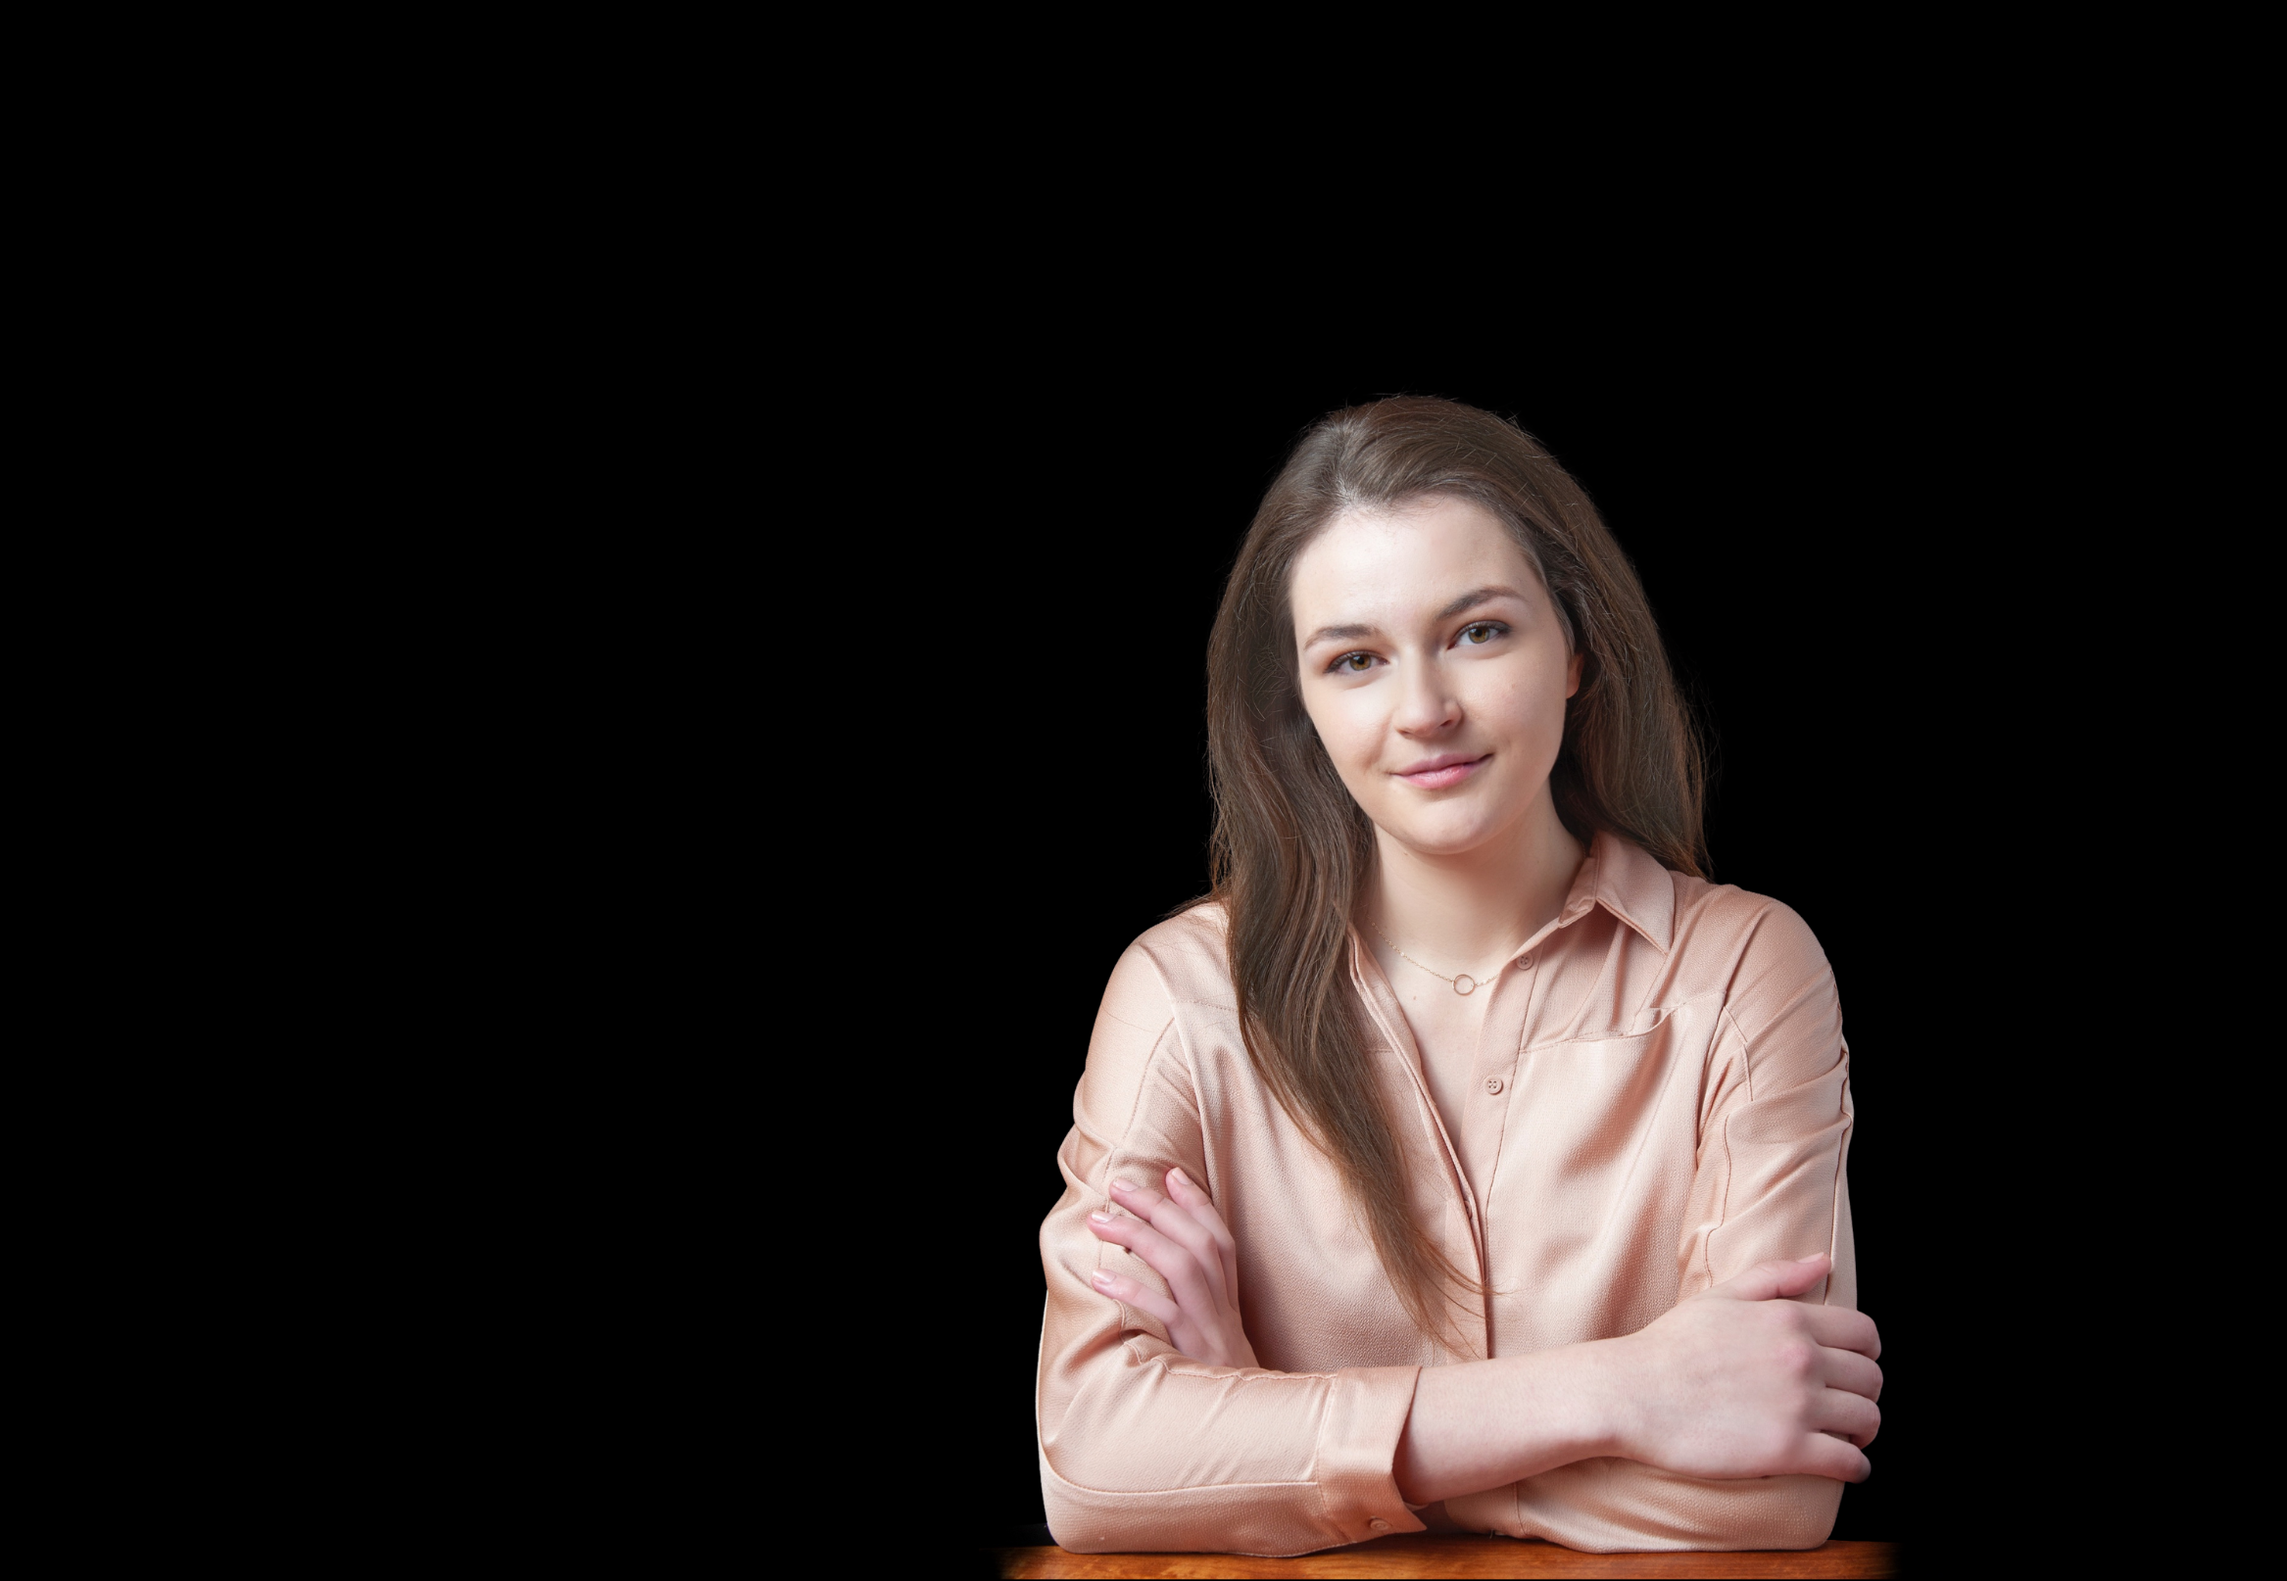
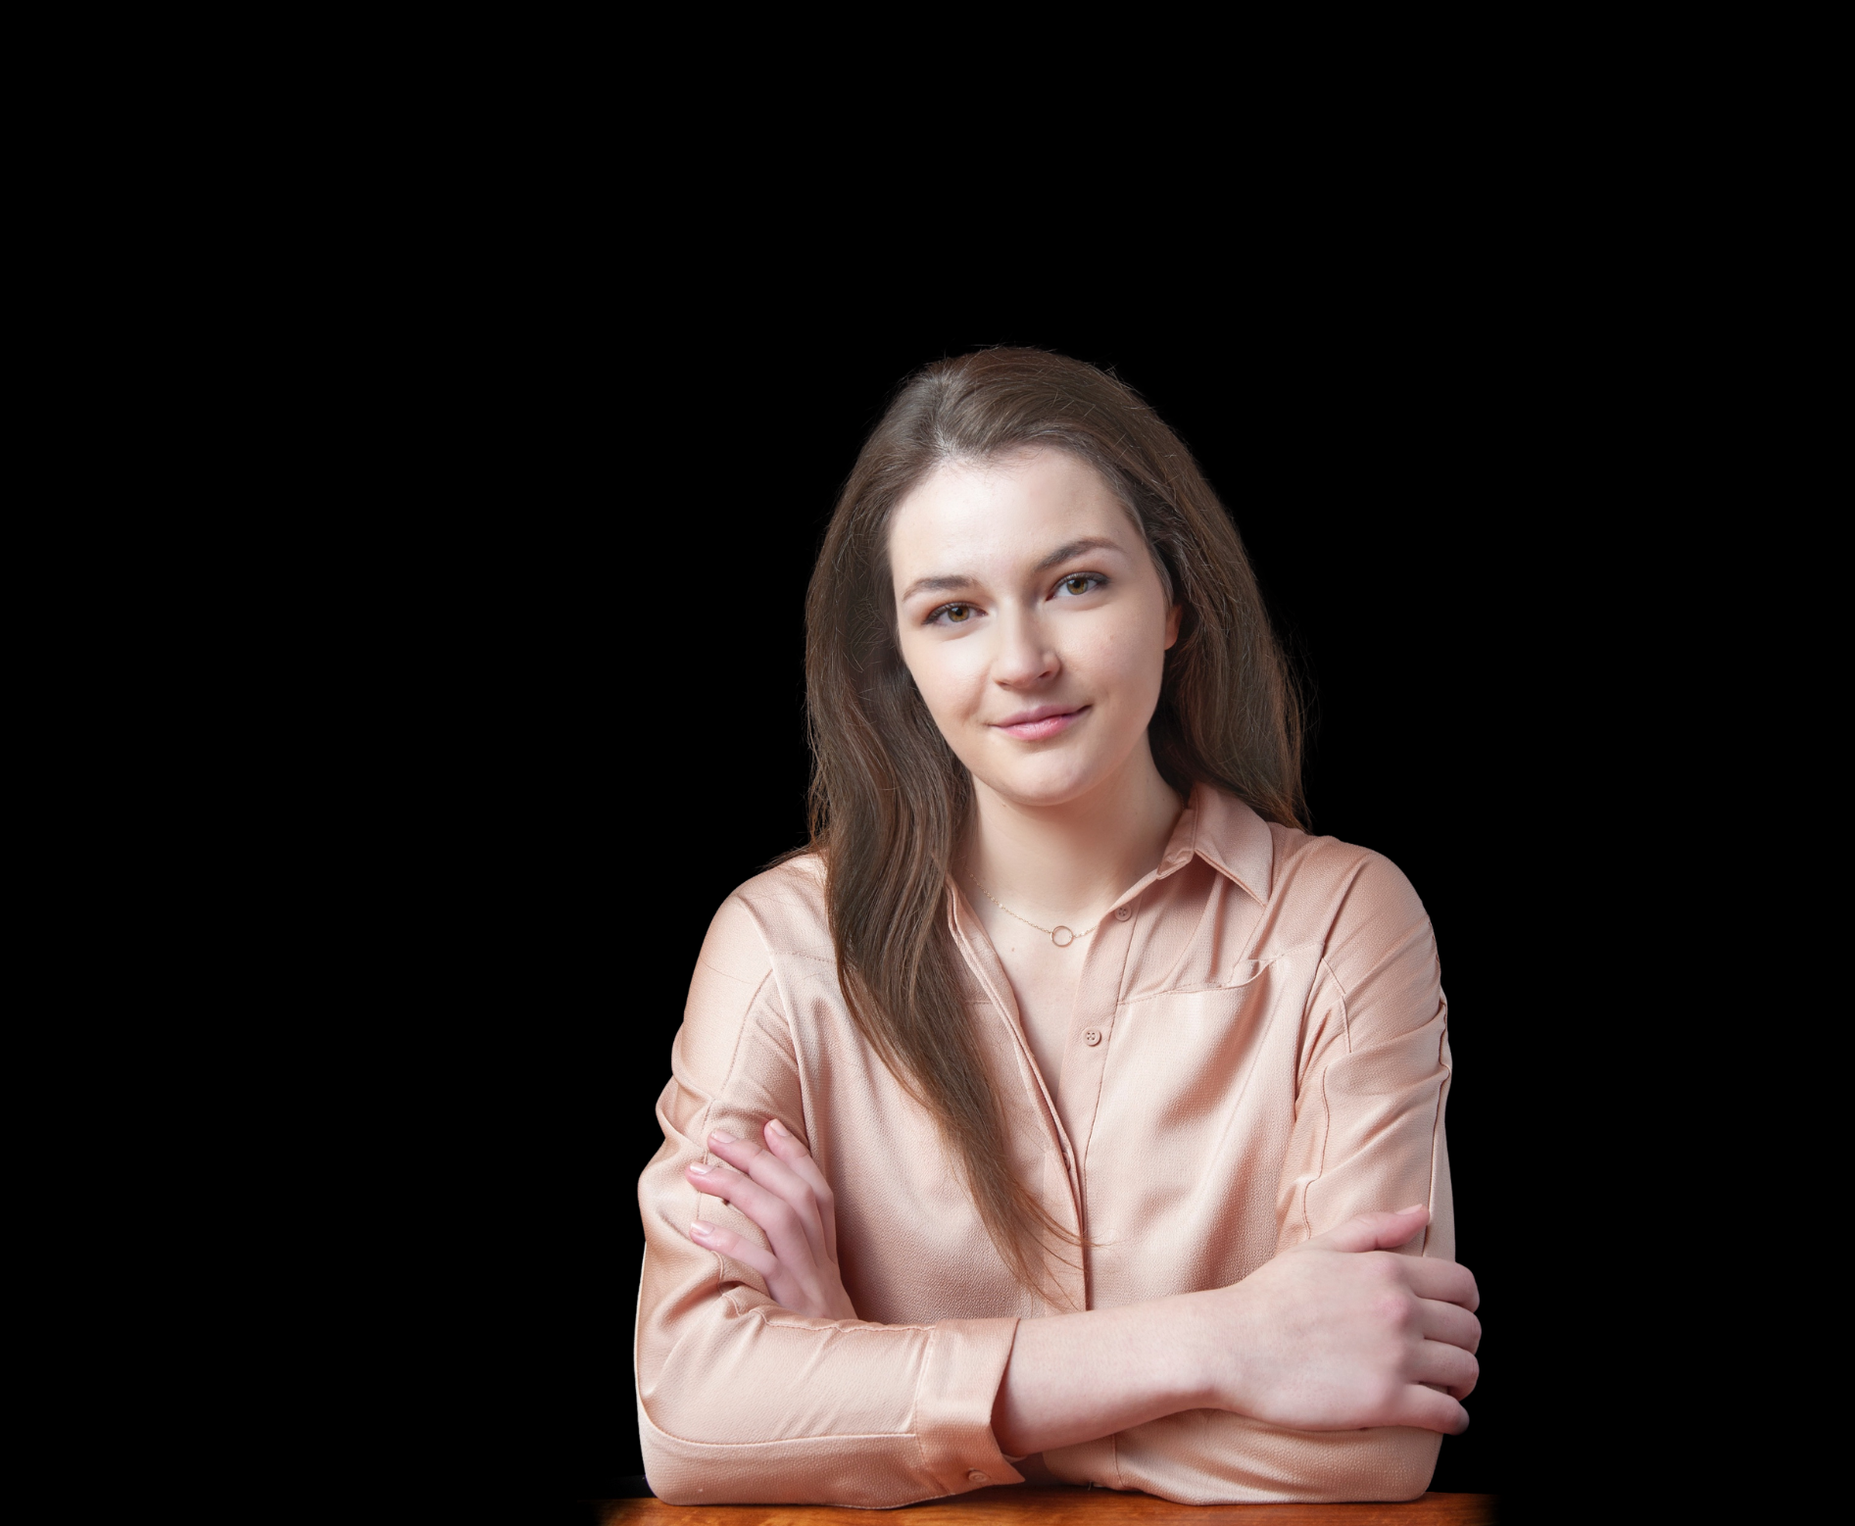
updated photo
update photo

Changed region(s): [[0.3117, 0.2158, 0.8415, 1.0]]

diff --git a/style.css b/style.css
@@ -76,7 +76,7 @@ section{
 	position: relative;
 	height: 90vh;
 	width: 100%;
-	background-image: url(best\ headshot.png);
+	background-image: url(new\ canva\ pic.png);
 	background-size: cover;
 	background-position: right
 	display: flex;

diff --git a/index.html b/index.html
@@ -36,7 +36,7 @@
 	<!----home section design--->
 	<section class="home" id="home">
 		<div class="home-text">
-			<div class="slide"><br><br>
+			<div class="slide"><br><br><br>
 	
 				<h3>good afternoon,</h3>
 			</div>
